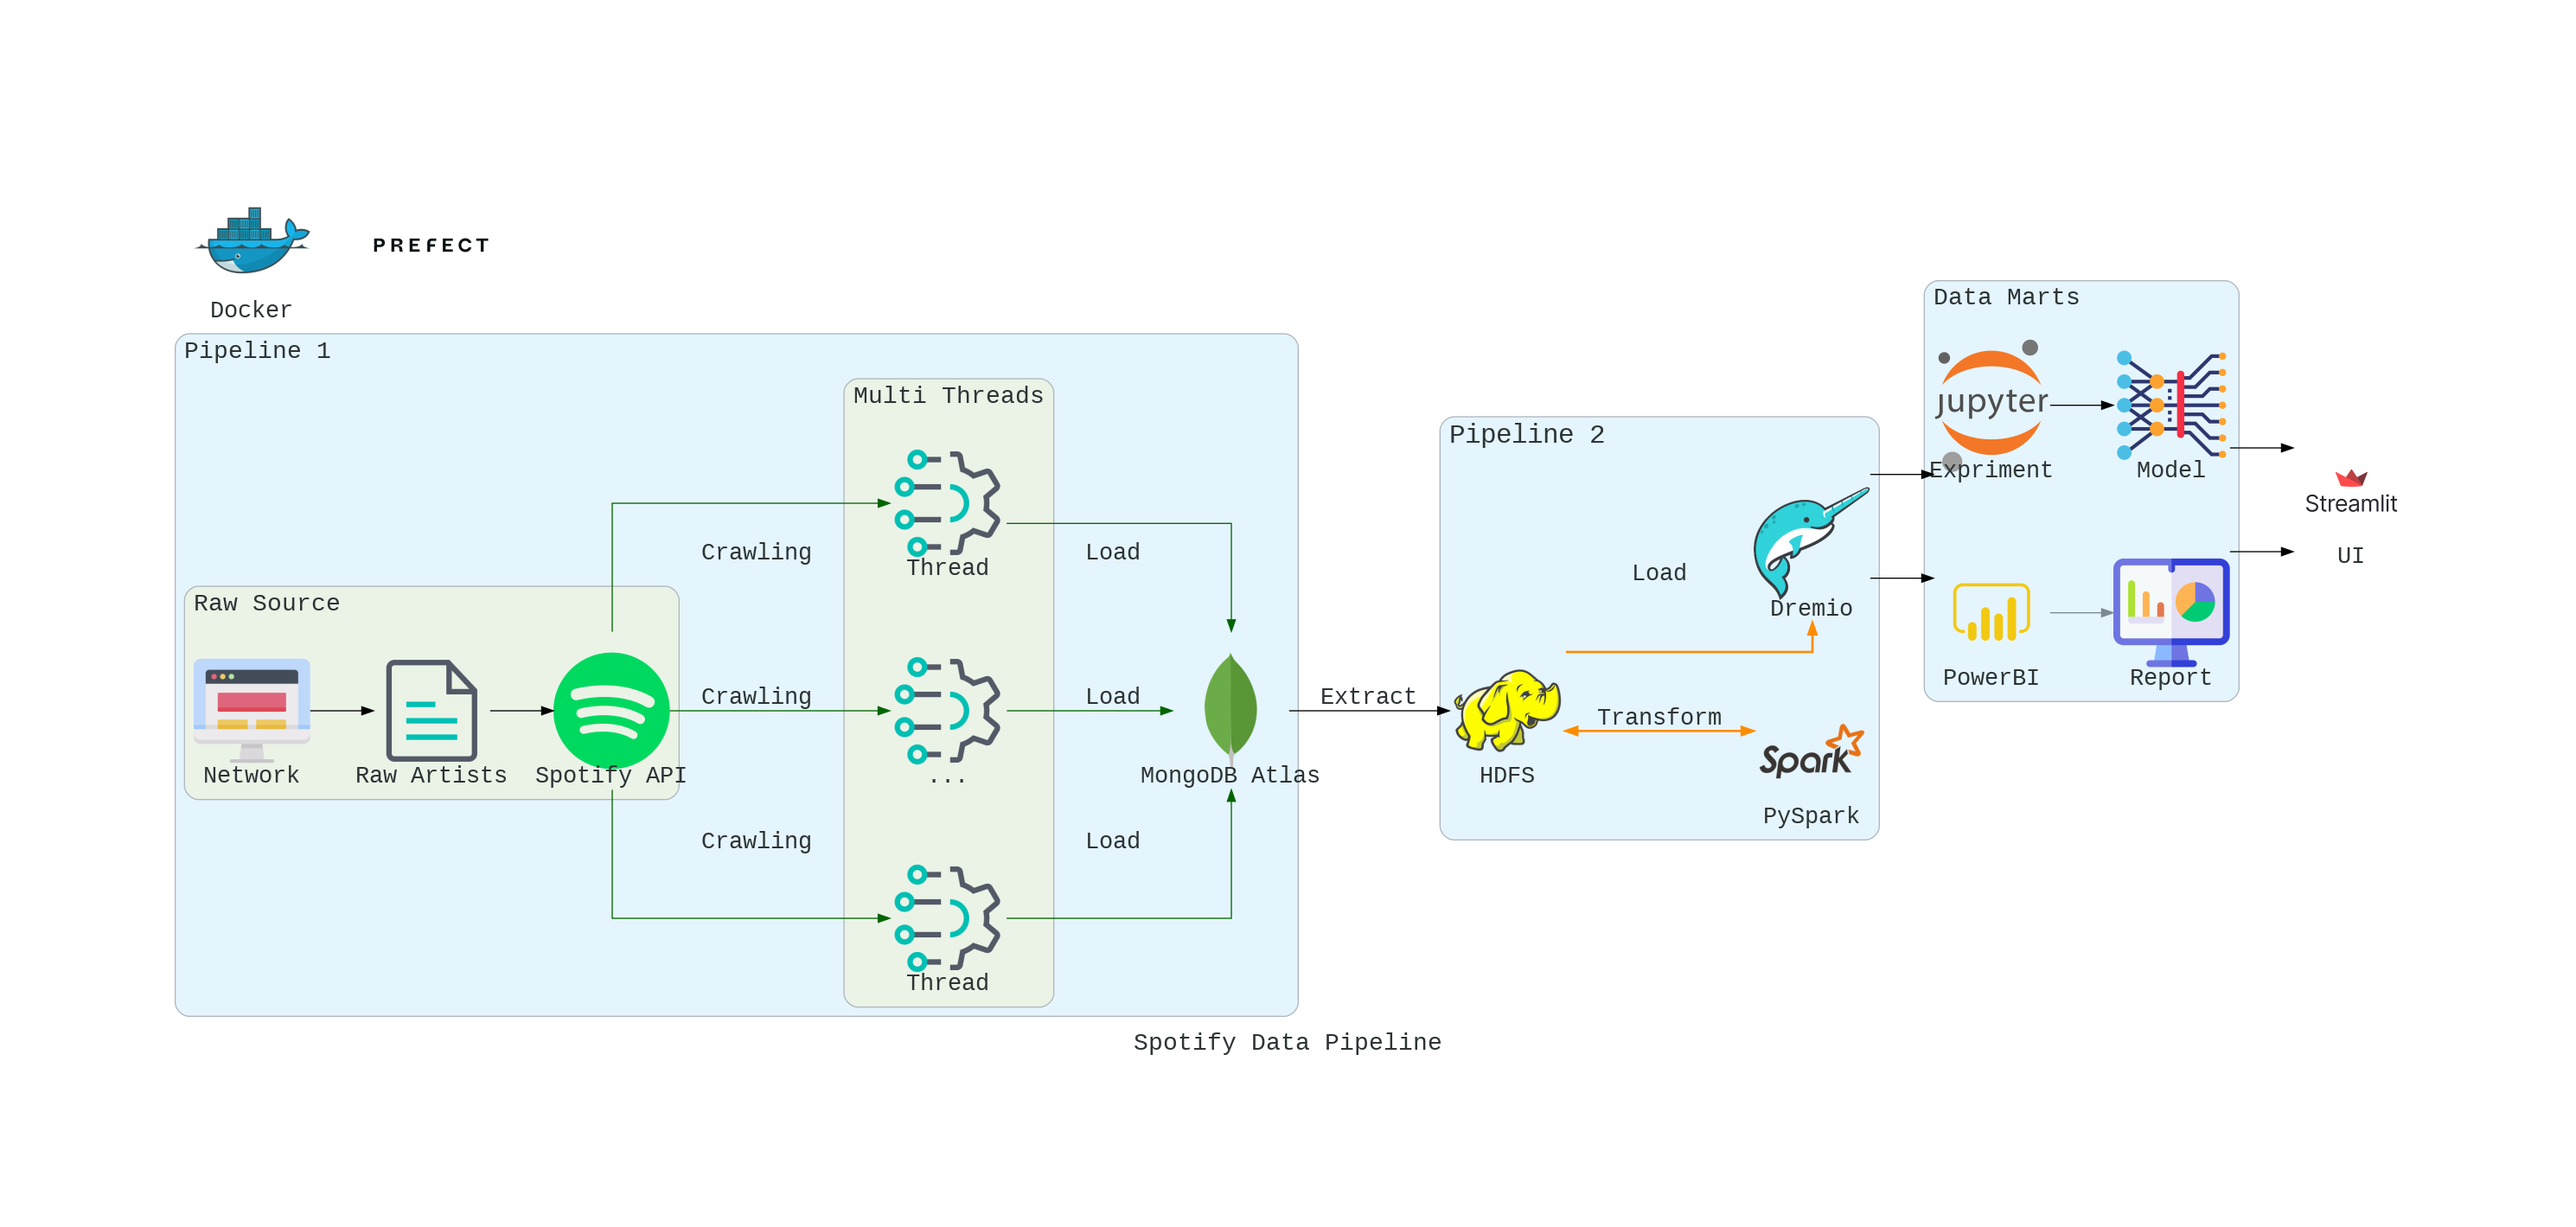
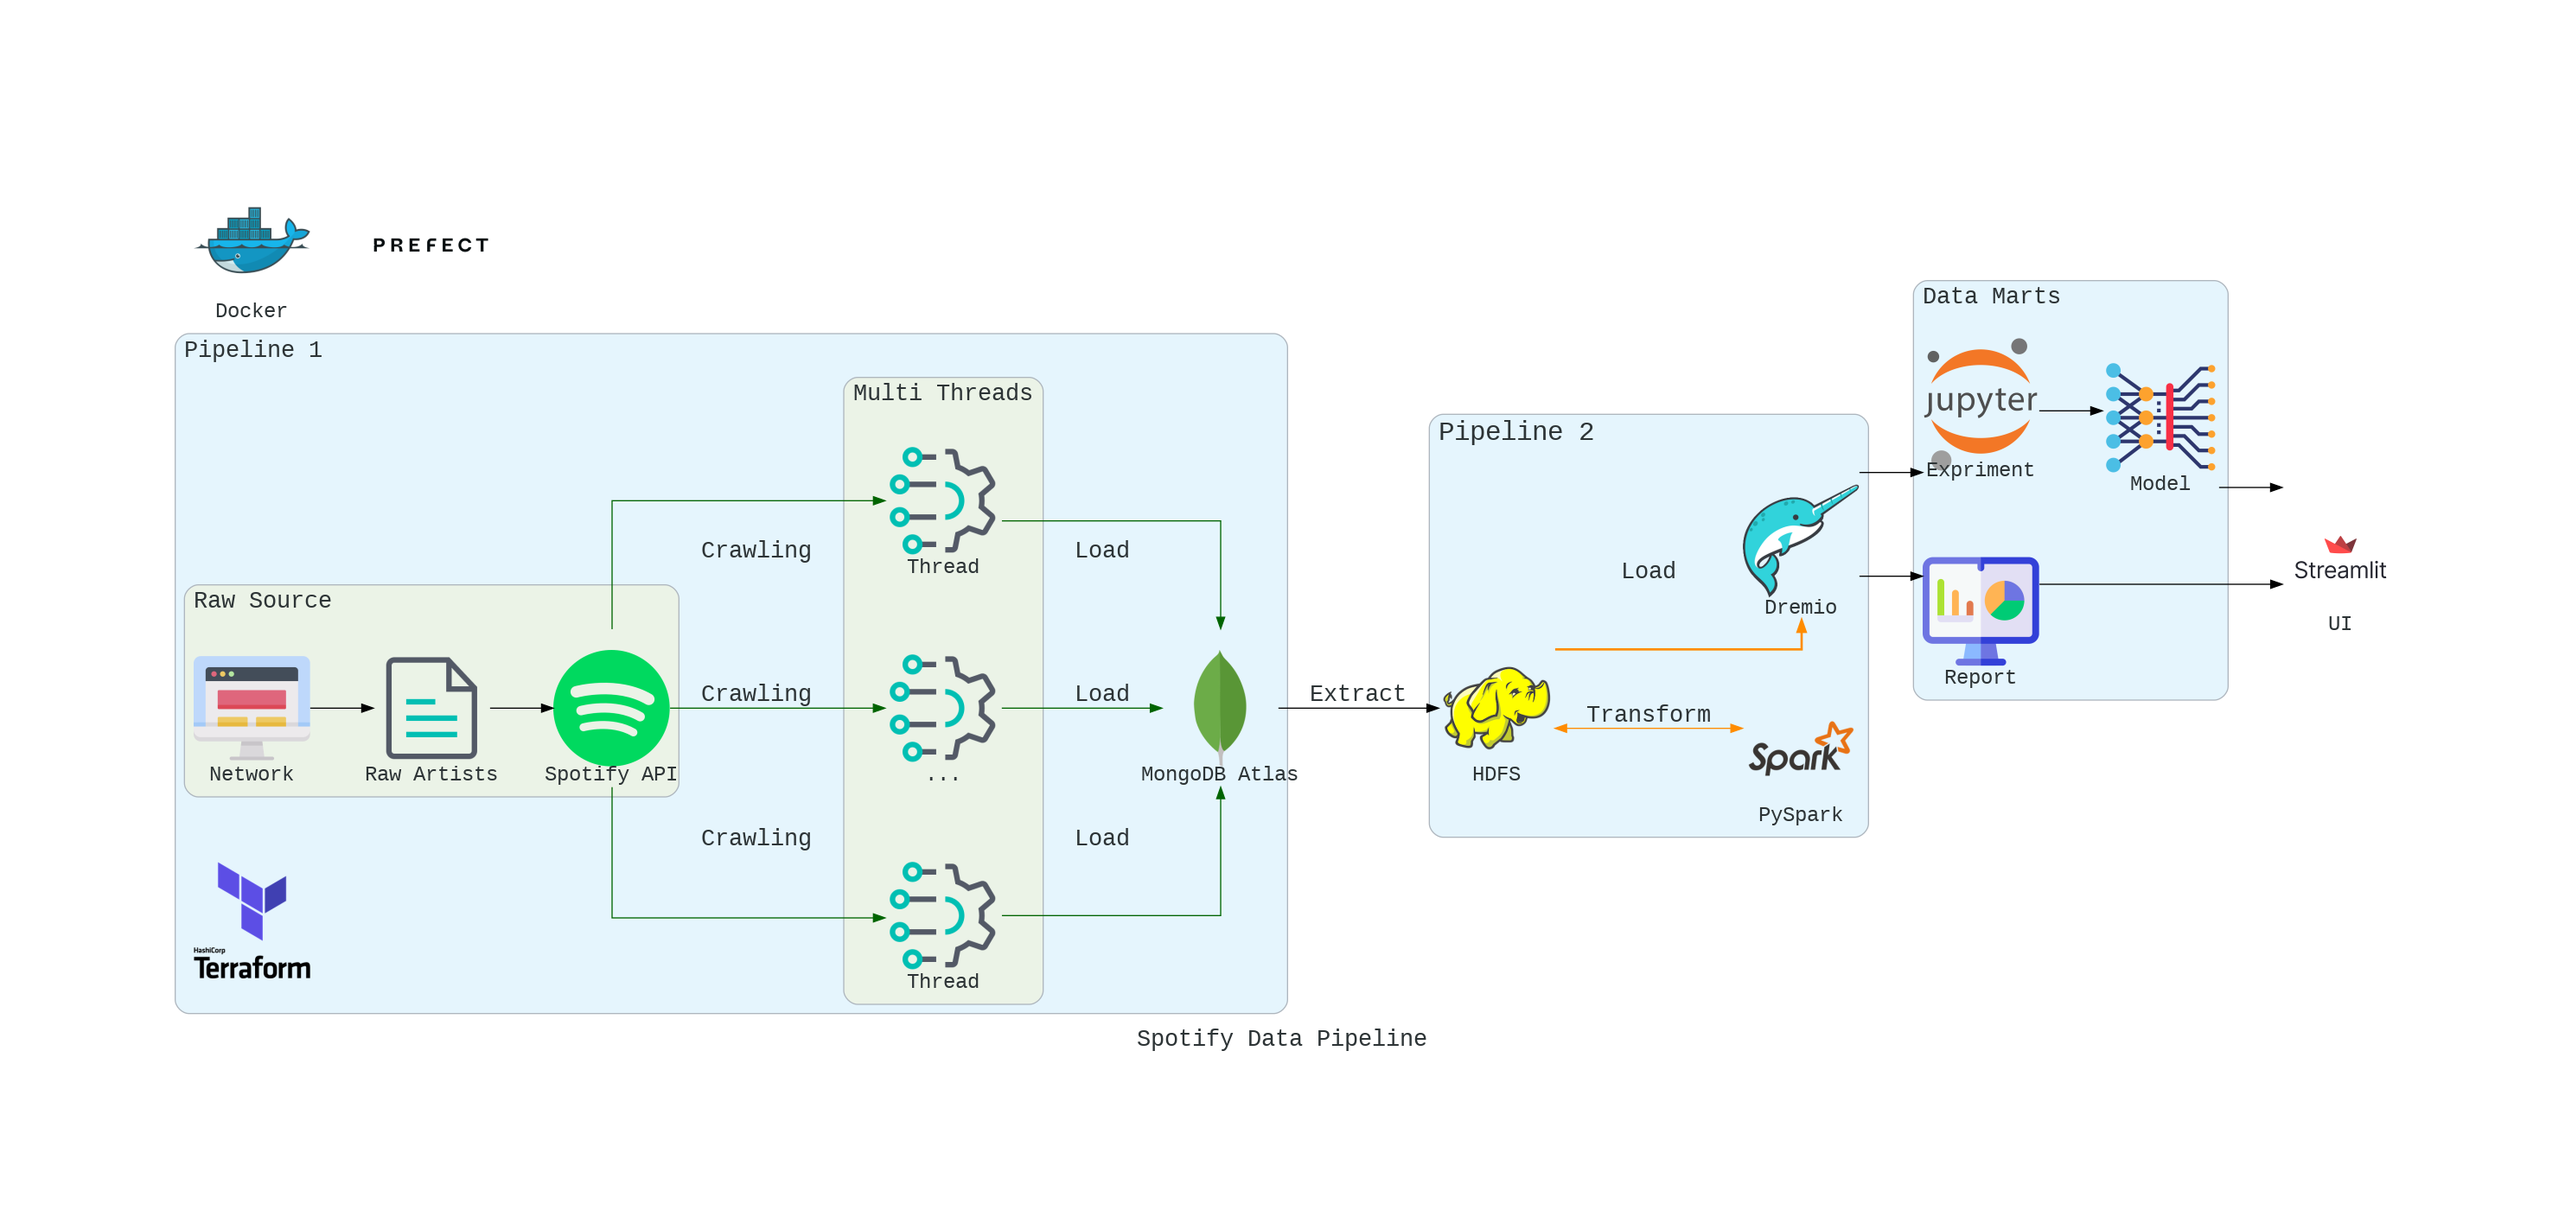
added terraform config

diff --git a/prefect/flows/resources/mongodb_io.py b/prefect/flows/resources/mongodb_io.py
@@ -7,7 +7,9 @@ import os
 def MongodbIO():
     user = os.getenv("MONGODB_USER")
     password = os.getenv("MONGODB_PASSWORD")
-    uri = f"mongodb+srv://{user}:{password}@python.zynpktu.mongodb.net/?retryWrites=true&w=majority"
+    cluster = os.getenv("MONGODB_SRV")
+    cluster = cluster.split("//")[-1]
+    uri = f"mongodb+srv://{user}:{password}@{cluster}/?retryWrites=true&w=majority"
     try:
         client = MongoClient(uri)
         print(f"MongoDB Connected")

diff --git a/prefect/flows/main_flow.py b/prefect/flows/main_flow.py
@@ -24,7 +24,9 @@ def pipeline_A(batch_size, start_index=None):
 def getMongoAuth():
     user = os.getenv("MONGODB_USER")
     password = os.getenv("MONGODB_PASSWORD")
-    return f"mongodb+srv://{user}:{password}@python.zynpktu.mongodb.net/?retryWrites=true&w=majority"
+    cluster = os.getenv("MONGODB_SRV")
+    cluster = cluster.split("//")[-1]
+    return f"mongodb+srv://{user}:{password}@{cluster}/?retryWrites=true&w=majority"
 
 
 @flow(name="ETL flow",

diff --git a/mongo_terraform/README.md b/mongo_terraform/README.md
@@ -1,0 +1,63 @@
+# Set up MongoDB Atlas with Terraform
+This page will help you to set up your own MongoDB Atlas Cluster with Terraform.
+
+For more detail, please read this: [Create an Atlas Cluster from a Template using Terraform](https://www.mongodb.com/docs/mongodb-vscode/create-cluster-terraform/)
+
+## Prerequisite 
+- [Terraform](https://developer.hashicorp.com/terraform/tutorials/aws-get-started/install-cli)
+- [MongoDB Atlas account](https://www.mongodb.com/cloud/atlas/register)
+
+## Step by Step
+### Create Organization
+When you create an MongoDB Atlas account, it will ask you to create your organization, just create
+your own. Then you will lead to the home page of your organization.
+Go to `Settings` section, copy your `Organization ID` and paste it to organization variable block in [variable.tf](./vairables.tf)
+```bash
+variable "org_id" {
+  type = string
+  description = "Organiztion ID"
+  default = "add-your-id" # add your id here
+}
+```
+### Create API key
+Then go to `Access Manager` section in your Atlas menu, you will see the `API keys` tab. Just make
+your own and copy it into [variables.tf](./vairables.tf) respectively
+> Make sure your api key have `organiztion owner` role
+```bash
+variable "public_key" {
+  type = string
+  default = "add-your-key" # add your
+}
+
+variable "private_key" {
+  type = string
+  default = "add-your-key" #add your
+}
+```
+### Deploy your Atlas Cluster
+Now run the following command
+```bash
+cd mongo_terraform
+terraform init # set up provider for atlas
+terraform plan
+```
+You need to type `yes` to continue this process, then type `terraform apply` to deploy your cluster.
+
+> Again, don't forget to type `yes` to continue, this process will take a few minutes. Just chill
+
+After all, you will get something like:
+```bash
+Apply complete! Resources: 4 added, 0 changed, 0 destroyed.
+
+Outputs:
+
+password = "123"
+srv_address = "mongodb+srv://spotify-cluster.kdglyul.mongodb.net"
+user = "root"
+```
+Just notice 3 last lines. You will need them to add into your `.env` to run the system. They are
+ `MONGODB_PASS`, `MONGODB_SRV` and `MONGODB_USER` respectively in .env file. Just copy the values and patse to it.
+
+## Conclusion
+ This terraform set up will deploy a MongoDB Atlas Cluster which is hosted on `GCP`. You can change to `AWS` or `Azure`
+ if you want (don't forget to modify region also)

diff --git a/README.md b/README.md
@@ -9,6 +9,7 @@ and Power BI for visualization and in-depth data analysis.
 
 <p align="center">
   <img alt="Data Pipeline" src="./image/spotify_data_pipeline.png">
+  <img alt="Terraform" src="https://img.shields.io/badge/terraform-%235835CC.svg?style=for-the-badge&logo=terraform&logoColor=white">
   <img alt="Prefect" src="https://img.shields.io/badge/Prefect-%23ffffff.svg?style=for-the-badge&logo=prefect&logoColor=black">
   <img alt="Docker" src="https://img.shields.io/badge/docker-%230db7ed.svg?style=for-the-badge&logo=docker&logoColor=white">
   <img alt="Spotify" src="https://img.shields.io/badge/Spotify%20API-1ED760?style=for-the-badge&logo=spotify&logoColor=white">
@@ -44,12 +45,15 @@ The obtained raw data undergoes a series of ETL processes.
 This is our demo video on Youtube, you can watch via this [Link](https://www.youtube.com/watch?v=If9-ALcsc8E&t=1s)
 
 ## Prerequisite 
+- [Terraform](https://developer.hashicorp.com/terraform/tutorials/aws-get-started/install-cli)
 - [Docker](https://www.docker.com/products/docker-desktop/)
 - [Spotify API account](https://developer.spotify.com/documentation/web-api)
 - [MongoDB Atlas](https://www.mongodb.com/cloud/atlas/register)
 
-
 ## Getting started :rocket:
+### Set up your MongoDB Atlas 
+There are several ways to do in this step, but we will use `terraform` to deploy Atlas cluster.
+Please follow this [**Instruction**](./mongo_terraform/README.md)
 ### Set up environment
 Clone this project to your machine by running the following command:
 ```bash
@@ -60,7 +64,7 @@ then you need to create `.env` file base on [env_template](./env_template)
 ```bash
 cp env_template .env
 ```
-Now please fill these informations blank in `.env` file, this can be done in [Prerequisite](#prerequisite) section:
+Now please fill these informations blank in `.env` file, this can be done in [Prerequisite](#prerequisite) and [Set up your MongoDB Atlas](#set-up-your-mongodb-atlas) section:
 ```
 # Spotify
 SPOTIFY_CLIENT_ID=<your-api-key>
@@ -69,6 +73,7 @@ SPOTIFY_CLIENT_SECRET=<your-api-key>
 # Mongodb
 MONGODB_USER=<your-user-name>
 MONGODB_PASSWORD=<your-user-password>
+MONGODB_SRV=<your-srv-link> # Get this from running terraform set up
 ```
 OK, now it's Docker's job ! Let's build your Docker images of this project by typing `make build` in your
 terminal 
